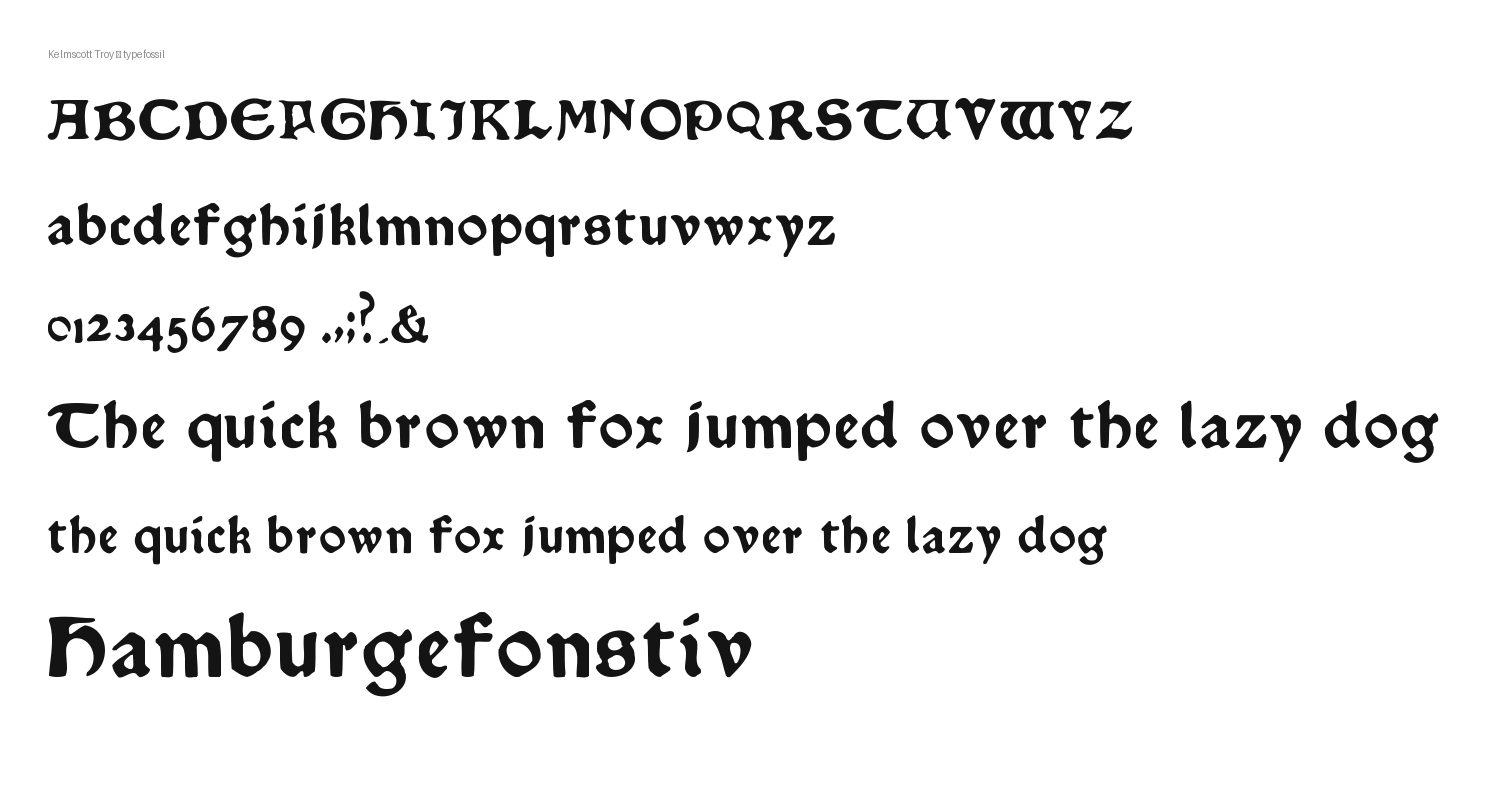
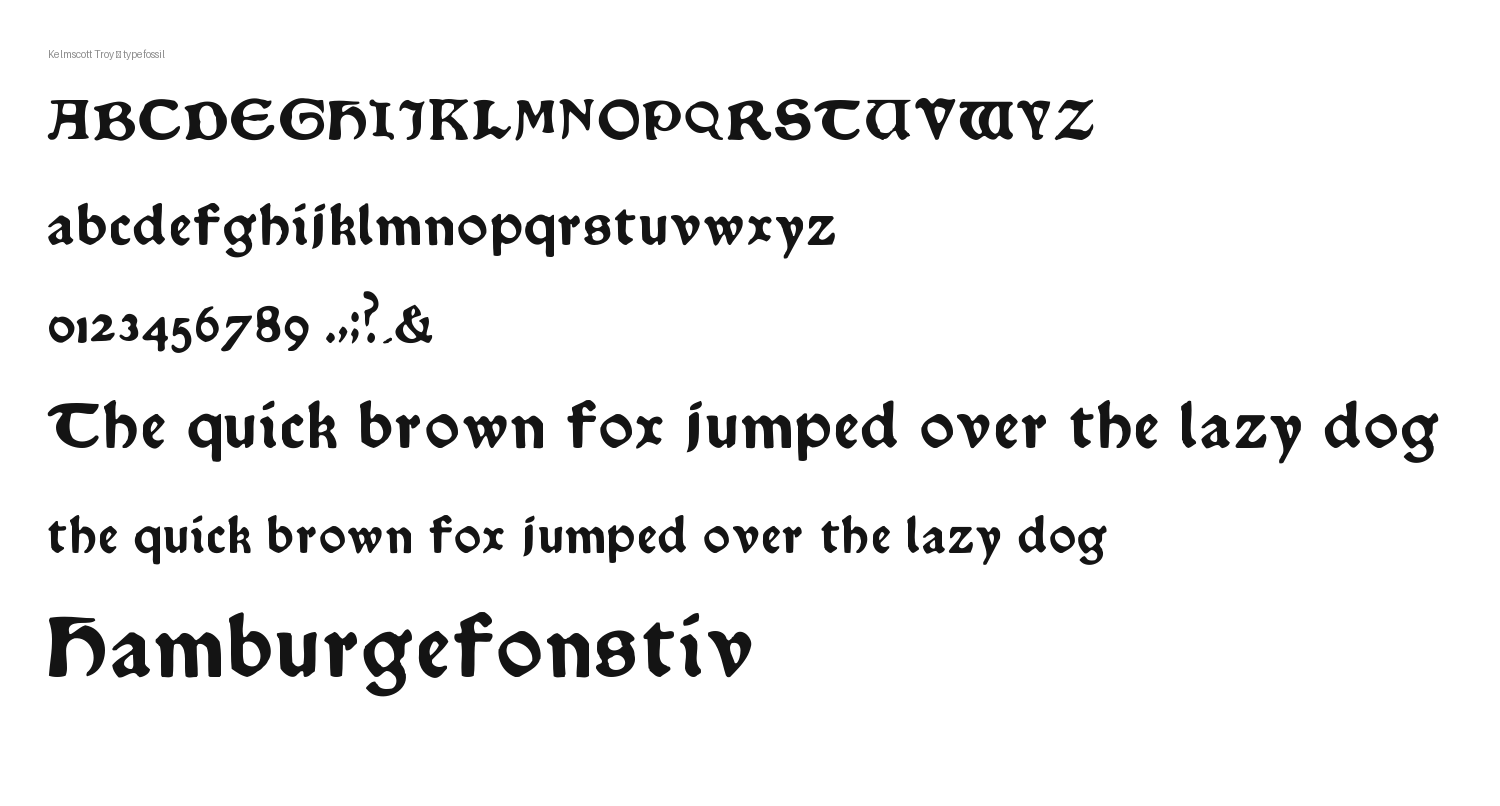
Keep the scan's greyscale when plucking, and withdraw a wrong F
pluck was binarising the component, which meant a plucked master had staircase
edges that then had to be blurred back into smoothness -- and that blur spread
ink across the fine gaps a letter depends on. It now keeps the scan's own ink
values inside the component. The scan already holds a smooth ink boundary;
discarding it and reconstructing one with a Gaussian was strictly worse, and
every plucked glyph is cleaner for the change.

F is withdrawn. Looking at the source rather than the master showed the letter
is fused to the following I in "AND FIRST": connected components return them as
one glyph, and what reads as the counter of the F is the gap between F and I.
Cutting them apart at any column invents a straight edge that is not in the
type. Troy sets a lowercase f even at line starts -- "ful sykerly they slepten"
-- so a capital F occurs almost nowhere else in either volume. Twenty-four
correct capitals are worth more than twenty-five with one fabricated.

Claude-Session: https://claude.ai/code/session_01T9i7wGxk73ZqUthNZ1CcxZ

Changed region(s): [[0.184, 0.1241, 0.7667, 0.1861], [0.0307, 0.3722, 0.3067, 0.4342], [0.644, 0.6514, 0.6747, 0.6824]]

diff --git a/typefossil/pluck.py b/typefossil/pluck.py
@@ -16,8 +16,17 @@ from scipy import ndimage
 
 
 def pluck(path, seed_xy, frame_h=320, frame_w=220, baseline_row=232,
-          window=340, min_area=400, x_height=60):
-    """Return a baseline-anchored frame holding the glyph nearest ``seed_xy``."""
+          window=340, min_area=400, x_height=60, greyscale=True):
+    """Return a baseline-anchored frame holding the glyph nearest ``seed_xy``.
+
+    With ``greyscale`` (the default) the frame keeps the scan's own ink values
+    inside the component rather than a hard 0/1 mask. This matters more than it
+    sounds: a binarised impression has staircase edges, so it has to be blurred
+    back into smoothness before tracing, and that blur spreads ink across the
+    fine gaps a letter depends on -- it closed the gap between the two
+    horizontals of 'F'. The scan already holds a smooth ink boundary; throwing
+    it away and reconstructing it with a Gaussian is strictly worse.
+    """
     sx, sy = seed_xy
     im = Image.open(path).convert("L")
     x0, y0 = max(0, sx - window // 2), max(0, sy - window // 2)
@@ -44,7 +53,17 @@ def pluck(path, seed_xy, frame_h=320, frame_w=220, baseline_row=232,
         return None
     lid, sl = best
     r0, r1, c0, c1 = sl[0].start, sl[0].stop, sl[1].start, sl[1].stop
-    sub = (lbl[r0:r1, c0:c1] == lid)
+    sel = (lbl[r0:r1, c0:c1] == lid)
+    if greyscale:
+        # Ink intensity, normalised so paper is 0 and the darkest ink is 1,
+        # then restricted to this component so a neighbour cannot bleed in.
+        patch = a[r0:r1, c0:c1]
+        lo, hi = float(patch.min()), float(np.median(a))
+        ink_val = np.clip((hi - patch) / max(hi - lo, 1e-6), 0.0, 1.0)
+        grown = ndimage.binary_dilation(sel, iterations=2)
+        sub = np.where(grown, ink_val, 0.0).astype(np.float32)
+    else:
+        sub = sel.astype(np.float32)
     fr = np.zeros((frame_h, frame_w), np.float32)
     # Seat by the glyph's own cap height: these are plucked one at a time, so
     # there is no line of neighbours to take a baseline from.
